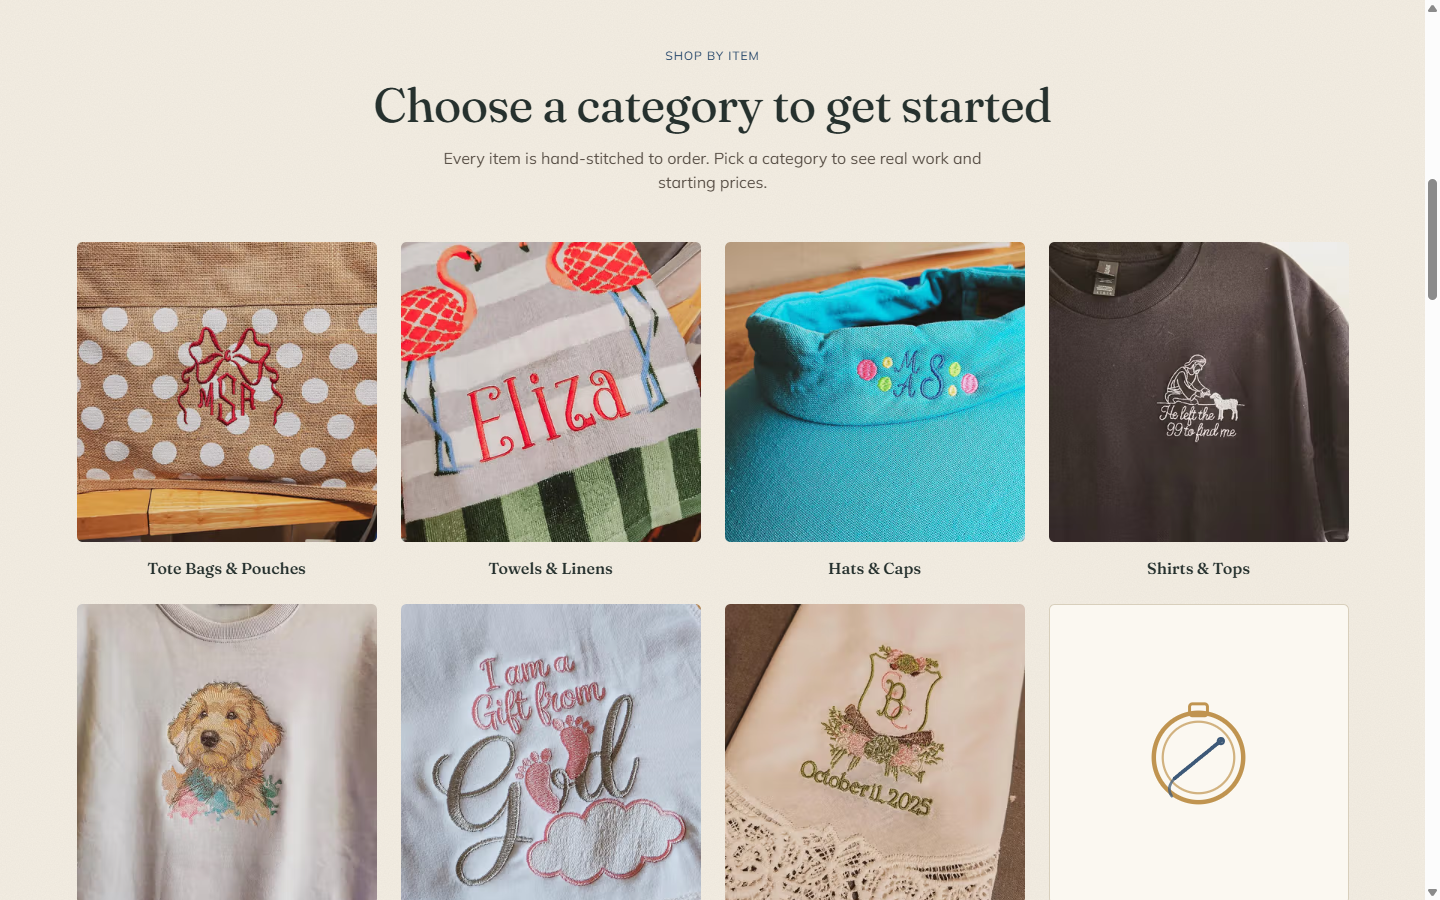
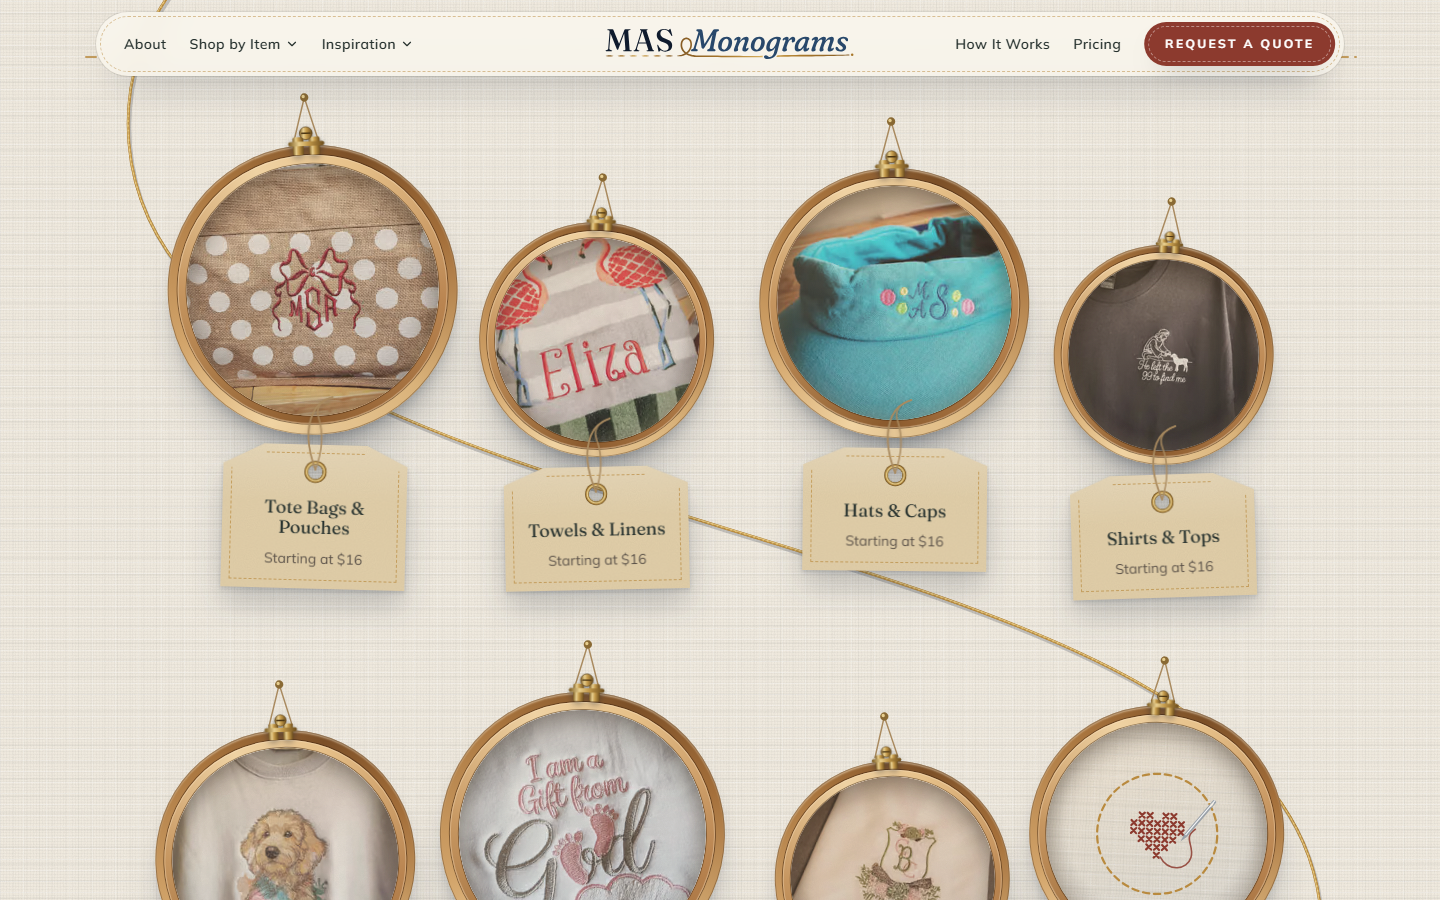
Overhaul 2.4f: refresh four studies to match the live sites
MAS Monograms, Presbyterian Academy, Reid Design and First Presbyterian
Orangeburg rewritten against what each live site shows on 2026-10-31, and
re-captured (cover, full page, phone, feature stills). MAS and Reid gain a
featureShot for the feature their hook names. Reid's Budget Calculator,
Style Quiz and slider claims are left word for word for Nathan's sign-off
(docs/PENDING.md 2a), with today's live findings noted there.

diff --git a/.claude/rules/content.md b/.claude/rules/content.md
@@ -36,19 +36,19 @@ Three collections live in `src/content/` with schemas declared in `src/content.c
 
 All optional in the schema, but every live study carries `hook`, `order` and `palette` (the reel and `case-palettes.test.ts` require them).
 
-| Field                                     | Shape                                                                                                           | What it is for                                                                                                                                                                                                                                                                                                                                                                                                                                                                                                                                                                                                                                                                                                                   |
-| ----------------------------------------- | --------------------------------------------------------------------------------------------------------------- | -------------------------------------------------------------------------------------------------------------------------------------------------------------------------------------------------------------------------------------------------------------------------------------------------------------------------------------------------------------------------------------------------------------------------------------------------------------------------------------------------------------------------------------------------------------------------------------------------------------------------------------------------------------------------------------------------------------------------------- |
-| `hook`                                    | string, max 90                                                                                                  | One true line about the live site in Nathan's plain voice. The hero reel's hover tag and "Now showing" ticker read it (`getReelSites()` in `src/data/reel.ts`); the title card shows it under the client name.                                                                                                                                                                                                                                                                                                                                                                                                                                                                                                                   |
-| `order`                                   | int, 1..n                                                                                                       | Position in the study loop. Matches the /work order (newest `published` first); Up next hands off to `order + 1` and wraps. The unit test checks the set runs 1..n with no gaps.                                                                                                                                                                                                                                                                                                                                                                                                                                                                                                                                                 |
-| `palette`                                 | `{ paper, ink, accent, accentInk, markDark?, dark?: { paper, ink, accent, accentInk? }, typeface, swatches[] }` | The client's own colours (six-digit hex) and faces, copied from the client repo's shipped tokens, or sampled with getComputedStyle from the live site when there is no repo (Orangeburg). Used only for surfaces, rules, swatches and non-text marks. `dark` only where the client site really ships a dark theme (today Stone Steps and Presbyterian Academy); never invent one. `markDark` is the client swatch used for marks on this site's dark ink when `accent` is under 3:1 there. `typeface` reads heading face first, e.g. `'Fraunces / Source Sans 3'`. A `# Palette source:` comment above each block says where the values came from.                                                                               |
-| `featureShot`, `beforeShot`, `mobileShot` | image paths, relative to the .mdx like `cover`                                                                  | Captures for the redesigned study page. `featureShotAlt` (string) is the Signature still's alt text, saying what it shows on the live site; without it the alt is a generic "A feature on the live {client} site". `mobileShot` is `shots/{slug}-mobile.png` from `npm run capture:study`; `beforeShot` only where the old site was captured while still live (FRT, MAS, Stone Steps). `featureShot` feeds the Signature band ("The idea", package 2.4b), which the study page shows only when a study sets it (set in 2.4c to the feature each hook names; MAS, Reid and FBCM leave it unset because no current capture shows it). The stage is a `FramePair` of `shots/{slug}-home.png` (found by file name) and `mobileShot`. |
-| `facts`                                   | `{ sector?, year?, role?, stack?: string[], host? }`                                                            | Overrides for the study's fact row. Each missing key falls back to the top-level field (`sector`, `year`, `role`, `stack`, the host of `liveUrl`). Leave it off unless the row should read differently, e.g. `year: '2024, rebuilt 2026'`.                                                                                                                                                                                                                                                                                                                                                                                                                                                                                       |
+| Field                                     | Shape                                                                                                           | What it is for                                                                                                                                                                                                                                                                                                                                                                                                                                                                                                                                                                                                                                                                                                                                               |
+| ----------------------------------------- | --------------------------------------------------------------------------------------------------------------- | ------------------------------------------------------------------------------------------------------------------------------------------------------------------------------------------------------------------------------------------------------------------------------------------------------------------------------------------------------------------------------------------------------------------------------------------------------------------------------------------------------------------------------------------------------------------------------------------------------------------------------------------------------------------------------------------------------------------------------------------------------------ |
+| `hook`                                    | string, max 90                                                                                                  | One true line about the live site in Nathan's plain voice. The hero reel's hover tag and "Now showing" ticker read it (`getReelSites()` in `src/data/reel.ts`); the title card shows it under the client name.                                                                                                                                                                                                                                                                                                                                                                                                                                                                                                                                               |
+| `order`                                   | int, 1..n                                                                                                       | Position in the study loop. Matches the /work order (newest `published` first); Up next hands off to `order + 1` and wraps. The unit test checks the set runs 1..n with no gaps.                                                                                                                                                                                                                                                                                                                                                                                                                                                                                                                                                                             |
+| `palette`                                 | `{ paper, ink, accent, accentInk, markDark?, dark?: { paper, ink, accent, accentInk? }, typeface, swatches[] }` | The client's own colours (six-digit hex) and faces, copied from the client repo's shipped tokens, or sampled with getComputedStyle from the live site when there is no repo (Orangeburg). Used only for surfaces, rules, swatches and non-text marks. `dark` only where the client site really ships a dark theme (today Stone Steps and Presbyterian Academy); never invent one. `markDark` is the client swatch used for marks on this site's dark ink when `accent` is under 3:1 there. `typeface` reads heading face first, e.g. `'Fraunces / Source Sans 3'`. A `# Palette source:` comment above each block says where the values came from.                                                                                                           |
+| `featureShot`, `beforeShot`, `mobileShot` | image paths, relative to the .mdx like `cover`                                                                  | Captures for the redesigned study page. `featureShotAlt` (string) is the Signature still's alt text, saying what it shows on the live site; without it the alt is a generic "A feature on the live {client} site". `mobileShot` is `shots/{slug}-mobile.png` from `npm run capture:study`; `beforeShot` only where the old site was captured while still live (FRT, MAS, Stone Steps). `featureShot` feeds the Signature band ("The idea", package 2.4b), which the study page shows only when a study sets it (set in 2.4c to the feature each hook names, and in 2.4f for MAS and Reid; a study leaves it unset while no current capture shows that feature). The stage is a `FramePair` of `shots/{slug}-home.png` (found by file name) and `mobileShot`. |
+| `facts`                                   | `{ sector?, year?, role?, stack?: string[], host? }`                                                            | Overrides for the study's fact row. Each missing key falls back to the top-level field (`sector`, `year`, `role`, `stack`, the host of `liveUrl`). Leave it off unless the row should read differently, e.g. `year: '2024, rebuilt 2026'`.                                                                                                                                                                                                                                                                                                                                                                                                                                                                                                                   |
 
 ### Study body shape (overhaul 2.4c)
 
 Every study body runs in the same order, and its H2s are the rail's chapter list:
 
-1. No `<Signature>` in the body: the template renders the "The idea" band from `hook` and `featureShot`, between the stage and the brief. Set `featureShot` to a real still of the feature the hook names, or leave it unset when no capture shows it (MAS, Reid and FBCM today).
+1. No `<Signature>` in the body: the template renders the "The idea" band from `hook` and `featureShot`, between the stage and the brief. Set `featureShot` to a real still of the feature the hook names, or leave it unset when no capture shows it. Feature stills are 1440 x 900 viewport crops of the live page, framed by hand; overhaul 2.4f re-shot MAS, Presbyterian Academy, Reid and Orangeburg on 2026-10-31.
 2. `## The brief`: prose.
 3. `## Decisions`: one to three `<Decision title easy did>`, "the easy version" against "what I did", taken only from the study's own approach text and designer note, with any supporting prose after them.
 4. `## What I built`: `<FeatureHighlight>` rows (real, live features only), then "The full build" list.

diff --git a/docs/PENDING.md b/docs/PENDING.md
@@ -95,6 +95,14 @@ These content fixes are waiting on Nathan's sign-off and will ship as their own 
   approve it.
 - **Reid Design:** the study describes a Budget Calculator, a style quiz and a
   before/after slider. Remove any of those that are not live on the site today.
+  Overhaul 2.4f (2026-10-31) refreshed the rest of the study and left these
+  claims word for word: the Decisions on the portfolio and the calculator, the
+  Style Quiz paragraph, the three matching "full build" lines, the first three
+  "What changed" rows and the designer note. That day on reiddesignllc.com,
+  `/budget-calculator/` and `/style-quiz/` answered 404, `/quiz/` and
+  `/calculator/` redirected to /services/, and `/portfolio/` redirected home
+  (the portfolio is switched off in Reid's CMS), so none of the three is
+  visible to a visitor today.
 
 ### 2b. Ungate /photography (added 2026-10-31, overhaul 2.8)
 
